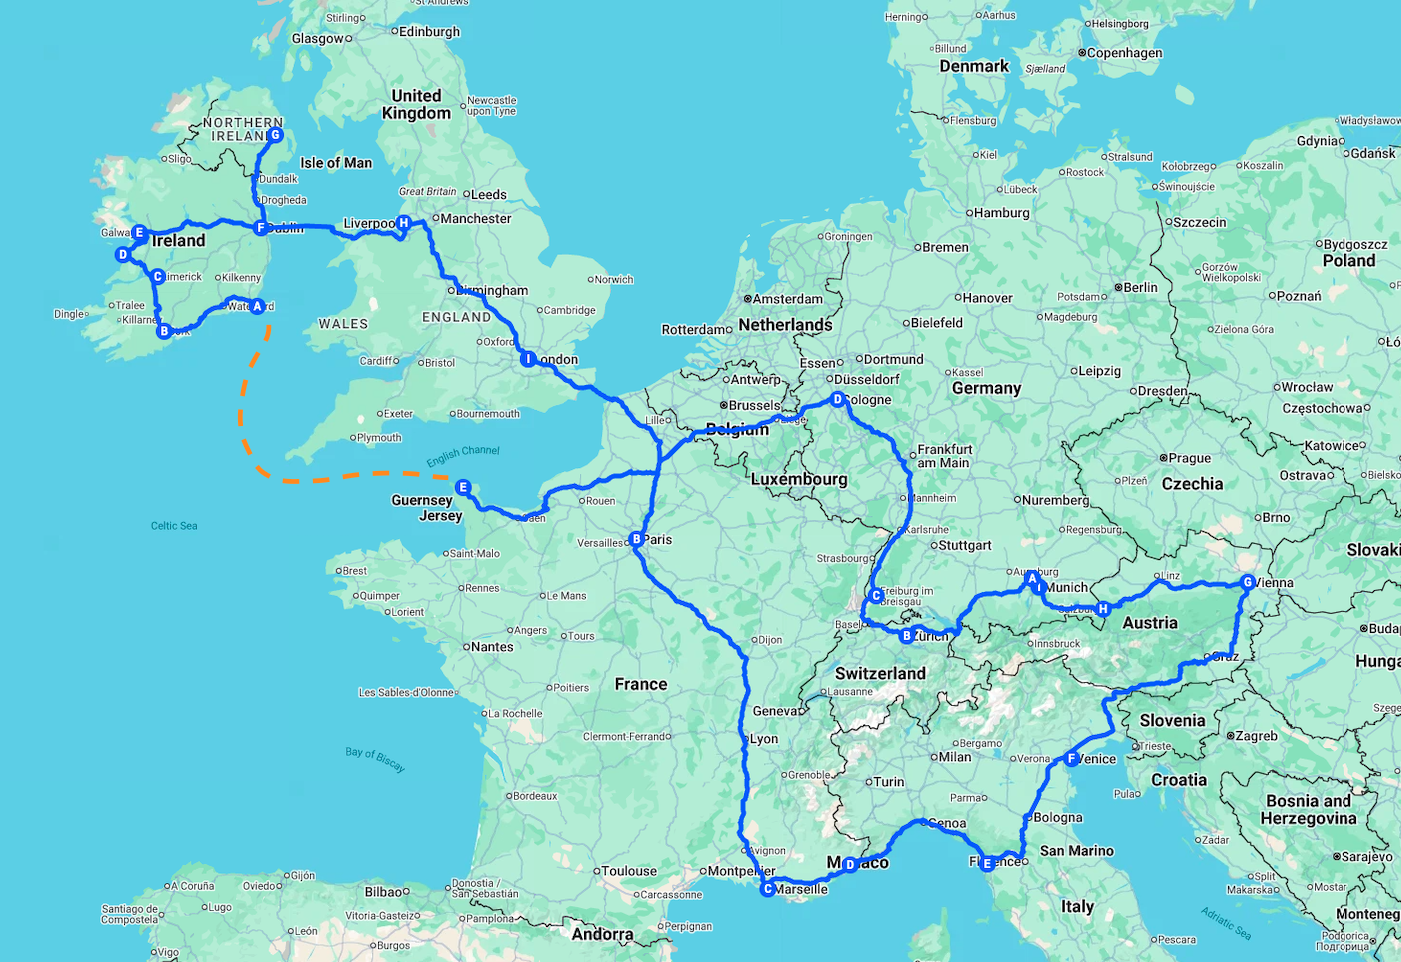
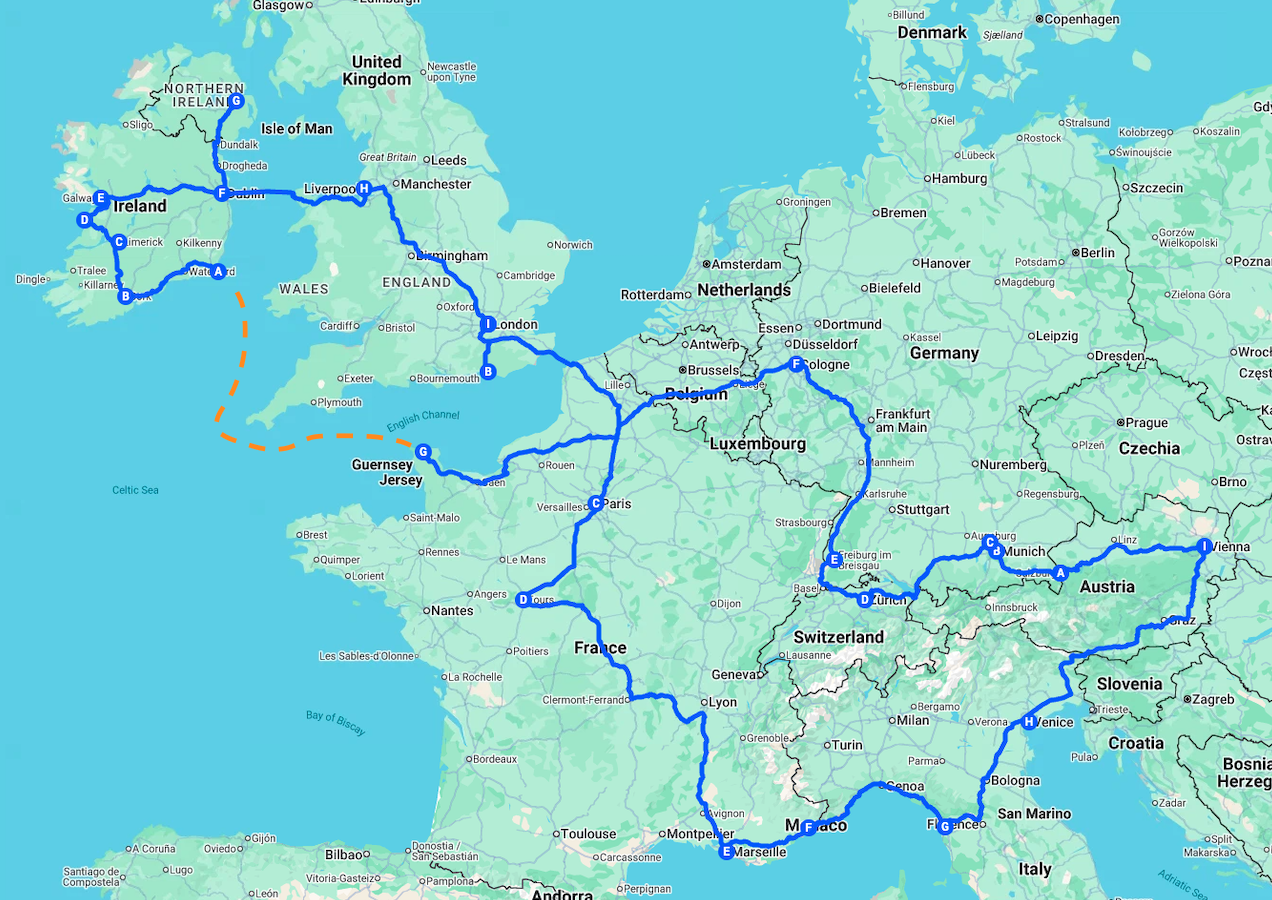
more adventures

diff --git a/README.md b/README.md
@@ -111,6 +111,8 @@ The camp is now closed down, but I still think about it with semi-fond memories.
 
 ## Europe with Reilly and Eleanor
 
+<img alt="Bus tour" src="bustooleurope.png" width="900" />
+
 ## Colorado River: Hoover Dam to Lake Mohave
 
 A week-long canoeing trip starting immediately below the Hoover Dam.
@@ -149,6 +151,16 @@ A motorized raft expedition from Lee's Ferry through the length of the Grand Can
 
 ## Bridalveil Falls
 
+Shortly after Lisa and I were engaged, she went off to Belgium for the summer. It was the summer of loneliness for me and I mostly just worked. However, one day a few of my friends suggested we go see Bridalveil Falls in Provo Canyon. It was a nice day and the falls were beautiful. We found a trail that took us around the side of the lower falls and to the upper falls.
+
+![Bridle Veil Falls](bridleveilfalls.png)
+
+By myself, I wandered further around the right side of the upper falls wondering if there was a way to get to the very top. I saw what looked like a way that a would go if I climbed up a slab of rock and so I went for it. Halfway up the rock was wet and I realized that it would be very difficult to go back down. I had no choice but to keep going. I thought maybe I could hike around the backside. I later learned that that would have been a 15 mile hike.
+
+![Tram](tram.png)
+
+However, there was also a tram, back then, that went to a restaurant that was perched on the side of the cliff. The were kind enough to give me a ride to the bottom. I remember thinking while I was sitting on that cliff that Lisa is going to be so mad at me if I die. From that day on, I have been **very** careful about the risks and adventures I take.
+
 ## Angel's Landing
 
 ## Ontario Road Trip
@@ -160,6 +172,8 @@ A motorized raft expedition from Lee's Ferry through the length of the Grand Can
 # 2001 - 2010
 
 ## French Riviera
+
+![French Riviera](frenchriviera.png)
 
 ## Hong Kong
 
@@ -174,6 +188,8 @@ A motorized raft expedition from Lee's Ferry through the length of the Grand Can
 # 2011 - 2020
 
 ## Ireland - Ring of Kerry
+
+![Ring of Kerry](ringofkerry.png)
 
 ## Ireland - Cliffs of Moher
 
